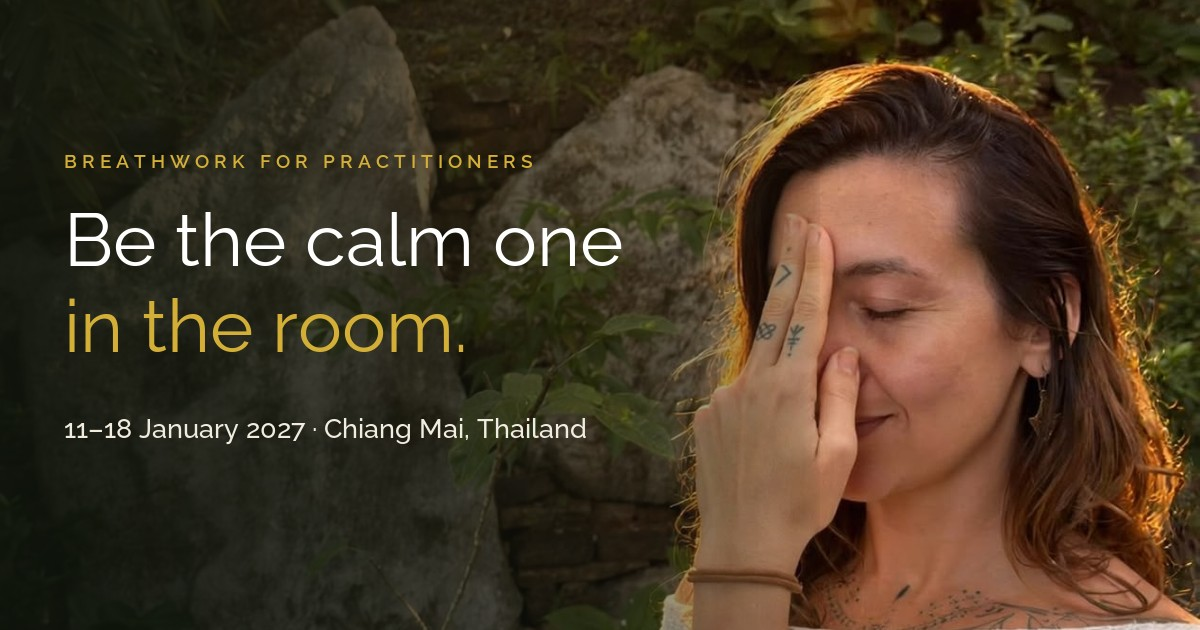
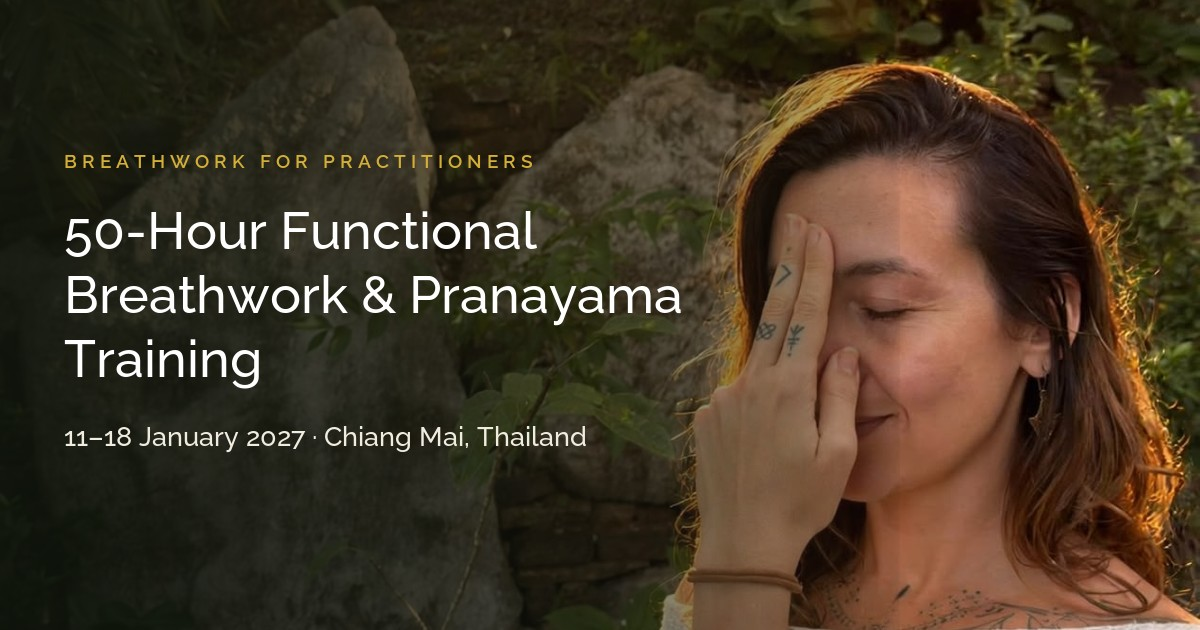
Breathwork for Practitioners: course title in hero, past-trainings section, Bec's card
- Hero headline is now the course title (50-Hour Functional Breathwork & Pranayama Training)
- New 'Breathwork is what we do' section: group photo wall and three graduate quotes
- Belly video cropped under the fingertips; Patricia's earlier portrait restored
- Bec's photo and Instagram handle added to her teacher card
- Link-preview image updated to the course title

Claude-Session: https://claude.ai/code/session_013KWQcX5owTmF5oPhsFupuJ

diff --git a/breathwork-for-practitioners/index.html b/breathwork-for-practitioners/index.html
@@ -123,7 +123,7 @@
                linear-gradient(to bottom,rgba(18,15,12,.55),rgba(18,15,12,0) 18%)}
   .hero-inner{max-width:var(--maxw);width:100%;margin:0 auto;padding:0 var(--pad)}
   .hero-col{max-width:640px}
-  .hero h1{margin:.36em 0 .4em;text-wrap:balance}
+  .hero h1{margin:.36em 0 .4em;text-wrap:balance;font-size:clamp(31px,4.7vw,62px);max-width:21ch}
   .hero-tag{display:inline-flex;align-items:center;gap:10px;border:1px solid rgba(255,255,255,.4);border-radius:2px;padding:8px 16px;
     font-size:11.5px;letter-spacing:.16em;text-transform:uppercase;color:rgba(255,255,255,.95);font-weight:400;line-height:1.5}
   .hero-tag .dot{width:5px;height:5px;border-radius:50%;background:var(--accent);flex:none}
@@ -185,9 +185,10 @@
 
   /* ============ ABOUT ============ */
   .split{display:grid;grid-template-columns:1.05fr 1fr;gap:clamp(30px,5vw,76px);align-items:center}
-  .split .media video{width:100%;height:auto;aspect-ratio:4/5;object-fit:cover;border-radius:2px;display:block}
+  .split .media{aspect-ratio:1/1;overflow:hidden;border-radius:2px}
+  .split .media video{width:100%;height:120%;object-fit:cover;object-position:50% 0;display:block}
   .about-copy p{margin-top:1.2em;color:#4a4a4a;font-size:clamp(16px,1.2vw,18.5px);line-height:1.75;max-width:60ch}
-  @media (max-width:880px){.split{grid-template-columns:1fr}.split .media{order:-1}.split .media video{aspect-ratio:16/11}}
+  @media (max-width:880px){.split{grid-template-columns:1fr}.split .media{order:-1;aspect-ratio:16/11}}
 
   /* ============ CURRICULUM ============ */
   .mod-grid{display:grid;grid-template-columns:repeat(12,minmax(0,1fr));gap:clamp(14px,1.8vw,24px);margin-top:clamp(34px,4.4vw,56px)}
@@ -209,6 +210,18 @@
   .vid-bg{position:absolute;inset:0;z-index:0}
   .vid-bg video{width:100%;height:100%;object-fit:cover;display:block}
   .vid-bg::after{content:"";position:absolute;inset:0;background:linear-gradient(180deg,rgba(20,18,16,.80),rgba(20,18,16,.86))}
+  /* groups */
+  .groups-wall{display:grid;grid-template-columns:repeat(4,1fr);gap:10px;margin-top:clamp(28px,3.6vw,48px)}
+  .groups-wall figure{margin:0;overflow:hidden;aspect-ratio:1/1;background:#222}
+  .groups-wall .gw-big{grid-column:span 2;grid-row:span 2}
+  .groups-wall img{width:100%;height:100%;object-fit:cover;display:block}
+  .groups-cap{margin-top:14px;font-size:12px;letter-spacing:.14em;text-transform:uppercase;color:rgba(255,255,255,.62)}
+  .grad-quotes{display:grid;grid-template-columns:repeat(3,1fr);gap:clamp(18px,2.4vw,34px);margin-top:clamp(40px,5vw,72px)}
+  .grad-quotes figure{margin:0;padding-top:22px;border-top:1px solid rgba(212,175,55,.55)}
+  .grad-quotes blockquote{margin:0;font-size:clamp(16px,1.25vw,18.5px);line-height:1.6;font-weight:300;color:#f3efe6}
+  .grad-quotes figcaption{margin-top:16px;font-size:12px;letter-spacing:.14em;text-transform:uppercase;color:var(--accent,#d4af37)}
+  .grad-quotes figcaption span{display:block;margin-top:4px;letter-spacing:.06em;text-transform:none;font-size:13px;color:rgba(255,255,255,.6)}
+  @media (max-width:760px){.groups-wall{grid-template-columns:repeat(2,1fr)}.grad-quotes{grid-template-columns:1fr}}
   .vid-band{min-height:clamp(380px,62vh,620px);display:flex;align-items:center;text-align:center}
   .vid-band .vid-bg::after{background:rgba(20,18,16,.5)}
   .vid-band h2{margin:0 auto;max-width:16ch;color:#fff}
@@ -429,8 +442,8 @@
   </div>
   <div class="hero-inner">
     <div class="hero-col">
-      <span class="eyebrow on-dark reveal">Breathwork for Practitioners · 50-hour training · Chiang Mai</span>
-      <h1 class="reveal d1">Be the calm one<br />in the room.</h1>
+      <span class="eyebrow on-dark reveal">Breathwork for Practitioners · Chiang Mai</span>
+      <h1 class="reveal d1">50-Hour Functional Breathwork &amp; Pranayama Training</h1>
       <div class="reveal d1"><span class="hero-tag"><span class="dot"></span><span><span data-fact="dates">11–18 January 2027</span> · La Tierra, Chiang Mai</span></span></div>
       <p class="sub reveal d2">Learn to steady yourself with the breath, and give the people you work with tools to stay resilient and move through what comes up.</p>
       <div class="hero-actions reveal d3">
@@ -603,7 +616,7 @@
     </div>
     <div class="fac-grid">
       <div class="fac lead-fac reveal">
-        <div class="portrait"><img src="photos/web-patricia-pranayama.jpg" width="1272" height="2048" loading="lazy" decoding="async" style="object-position:78% 68%" alt="Patricia Udipti practising alternate-nostril breathing in a garden" /></div>
+        <div class="portrait"><img src="../assets/kenaz/opt/kenaz.jpg" width="600" height="750" loading="lazy" decoding="async" alt="Patricia Udipti, founder of KENAZ" /></div>
         <div>
           <h3 class="name">Patricia Udipti</h3>
           <div class="role">Lead teacher · Breathwork &amp; Pranayama · Founder of KENAZ</div>
@@ -620,15 +633,44 @@
           <p class="bio">Certified Authentic Relating Facilitator and L2 Internal Family Systems Practitioner with 5 years' experience. Yaniv teaches the nervous system and trauma-awareness classes: how to read what is happening in a person, and how to keep a practice safe.</p>
         </div>
       </div>
-      <!-- BEC: DRAFT. Needs her surname, photo, Instagram handle and her own bio. -->
+      <!-- BEC: still needs her surname and her own bio. -->
       <div class="fac second reveal d2">
-        <div class="portrait empty"><span>Photo to come</span></div>
+        <div class="portrait"><img src="photos/bec.jpg" width="430" height="538" loading="lazy" decoding="async" alt="Bec smiling, hair tied up, in front of a warm plaster wall" /></div>
         <div>
           <h3 class="name">Bec</h3>
           <div class="role">Somatics</div>
+          <div class="handle">@becbreath</div>
           <p class="bio">Bec teaches the somatic practice in the training: slow, yin-based work with the body, woven together with the breath, drawn from her sessions with clients.</p>
         </div>
       </div>
+    </div>
+  </div>
+</section>
+
+<!-- ===================== 9b. GROUPS ===================== -->
+<section class="dark" id="groups">
+  <div class="wrap">
+    <div class="section-head">
+      <span class="eyebrow reveal">Where this comes from</span>
+      <h2 class="reveal d1">Breathwork is what we do.</h2>
+      <p class="lead reveal d2">KENAZ is a breathwork school. For the past five years Patricia has trained hundreds of breathwork facilitators, in Thailand, Costa Rica and Europe, through a 200-hour, trauma-aware programme. Breathwork for Practitioners takes the most useful parts of that training (the breathing techniques, the nervous system work and the safety skills) and puts them into one week, for people who work in other fields.</p>
+    </div>
+    <div class="groups-wall reveal d2">
+      <figure class="gw-big"><img src="photos/pair-practice.jpg" loading="lazy" decoding="async" style="object-position:70% 78%" alt="Two participants sitting facing each other on a wooden floor, holding hands, practising in a pair" /></figure>
+      <figure><img src="photos/group-pool.jpg" loading="lazy" decoding="async" style="object-position:50% 68%" alt="A training group dressed in white gathered by a pool among tropical trees" /></figure>
+      <figure><img src="photos/groups/k01.jpg" loading="lazy" decoding="async" style="object-position:50% 50%" alt="A group seated on mats in an open-air shala, practising and facing the jungle" /></figure>
+      <figure><img src="photos/groups/k13.jpg" loading="lazy" decoding="async" style="object-position:50% 50%" alt="A training group in white standing in lush jungle, some with hands in prayer position" /></figure>
+      <figure><img src="photos/groups/k06.jpg" loading="lazy" decoding="async" style="object-position:50% 50%" alt="A training group in white on a terrace with the sea and palms behind them" /></figure>
+      <figure><img src="photos/groups/k07.jpg" loading="lazy" decoding="async" style="object-position:50% 50%" alt="A large training group standing in a high-ceilinged hall under a round skylight" /></figure>
+      <figure><img src="photos/groups/k09.jpg" loading="lazy" decoding="async" style="object-position:50% 50%" alt="A training group under a wooden gazebo holding their certificates" /></figure>
+      <figure><img src="photos/group-certificates.jpg" loading="lazy" decoding="async" style="object-position:50% 58%" alt="Graduates laughing and holding up their certificates under a string of prayer flags" /></figure>
+      <figure><img src="photos/groups/k03.jpg" loading="lazy" decoding="async" style="object-position:50% 50%" alt="A training group in white beside a pool under a brick and wood pavilion" /></figure>
+    </div>
+    <p class="groups-cap reveal d2">Some of the groups who have trained with KENAZ</p>
+    <div class="grad-quotes">
+      <figure class="reveal"><blockquote>&ldquo;There is a full foundation in Trauma-Awareness and all the tools you need to learn how to hold space with integrity and safety.&rdquo;</blockquote><figcaption>Jasmin P. <span>Facilitator training, Thailand, May 2025</span></figcaption></figure>
+      <figure class="reveal d1"><blockquote>&ldquo;It gave me so many tools for the road ahead - on a professional level, but also for my own growth and transformation.&rdquo;</blockquote><figcaption>Sebastian K. <span>Facilitator training, Thailand, May 2025</span></figcaption></figure>
+      <figure class="reveal d2"><blockquote>&ldquo;The gentle and welcoming container has created a space where I could open and enjoy this process. Now I can guide other people through Breathwork, and they have amazing experiences.&rdquo;</blockquote><figcaption>Juan C. <span>Facilitator training, Thailand, October 2025</span></figcaption></figure>
     </div>
   </div>
 </section>
